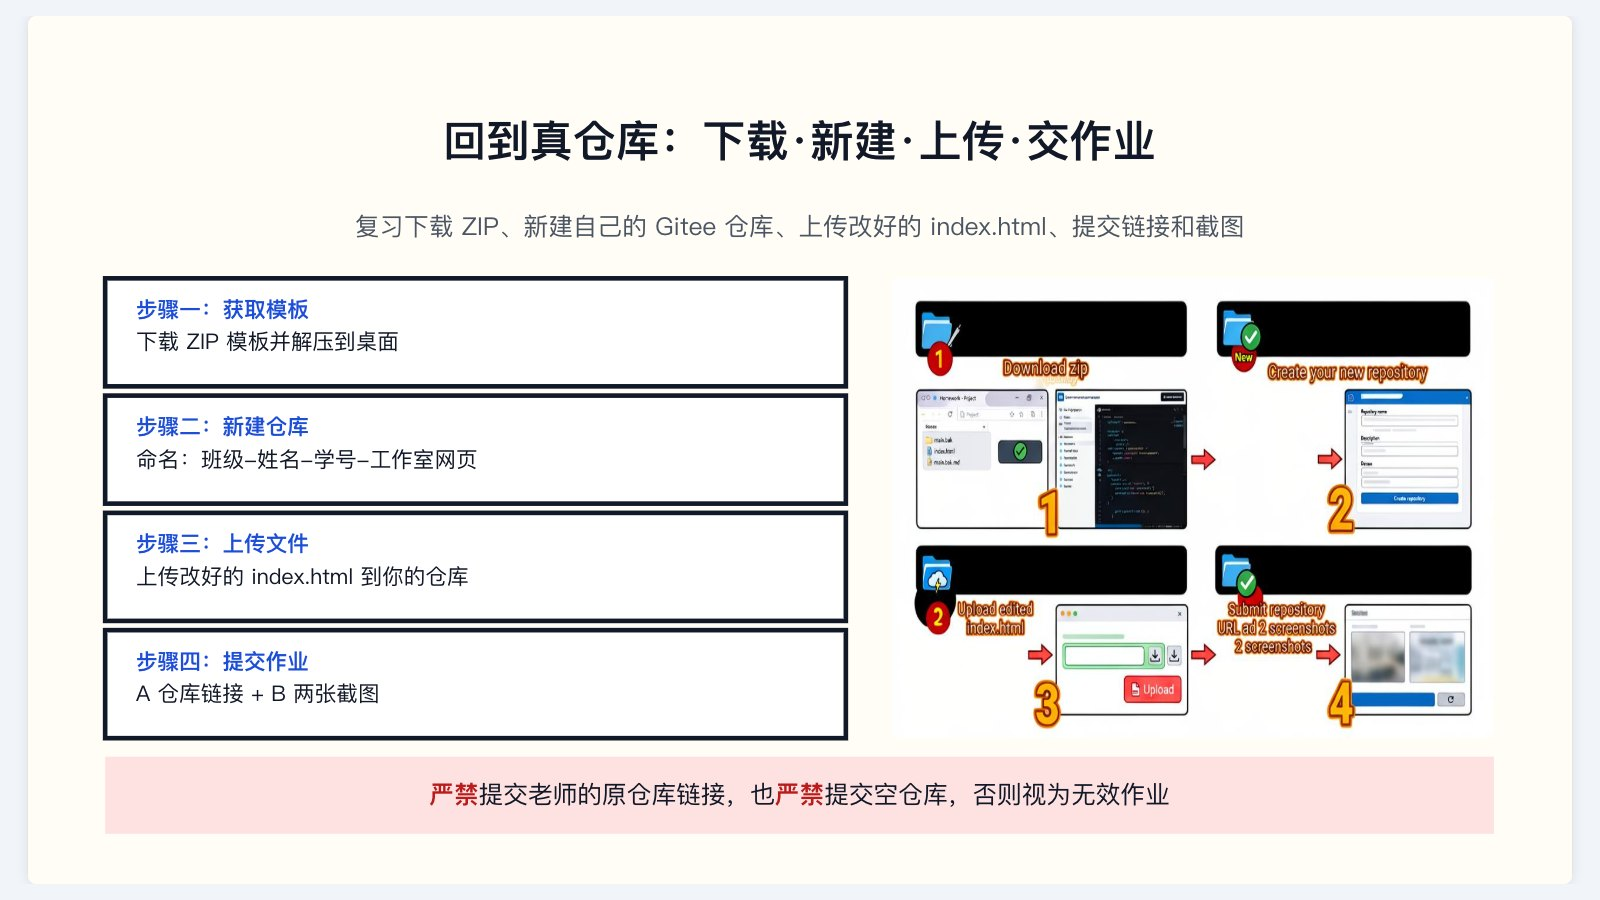
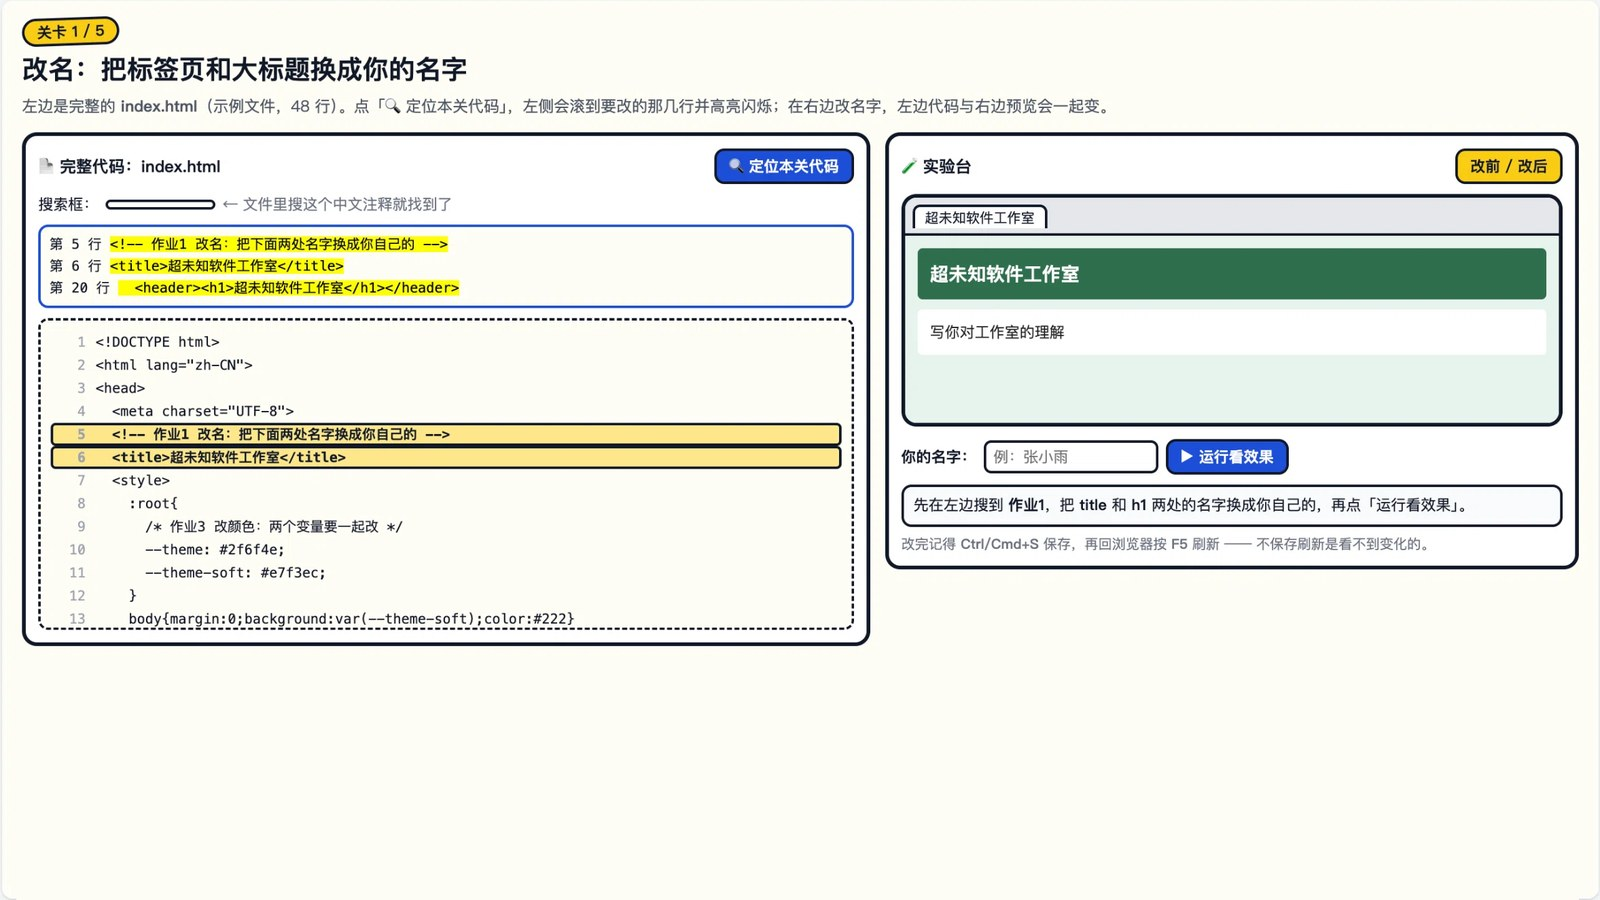
feat: 课程封面换成关卡 1「改名」的代码实操画面
- 取自 scene 3，去掉播放器字幕条、裁成 16:9 并压到 1600x900
- CONTEXT 同步封面来源说明

diff --git a/CONTEXT.md b/CONTEXT.md
@@ -120,7 +120,7 @@ content/courses/
   zoujin-chaoweizhi.json        课程元数据 + 11 个章节
 public/courses/zoujin-chaoweizhi/
   classroom.html                7.8MB SuperUnknownMAIC 离线课程
-  cover.jpg                     课程封面（scene 10）
+  cover.jpg                     课程封面（scene 3 · 关卡1 改名）
   scene-1.jpg ~ scene-11.jpg    章节缩略图
 scripts/
   capture-covers.mjs            Playwright 截封面/缩略图
@@ -136,7 +136,7 @@ docs/
 - 标题：走进超未知软件工作室
 - 副标题：工作室入门 · 网页改造实战
 - 11 个场景：4 张幻灯片 + 5 个互动关卡 + 2 个测验
-- 封面：`/courses/zoujin-chaoweizhi/cover.jpg`
+- 封面：`/courses/zoujin-chaoweizhi/cover.jpg`（取自 scene 3「关卡 1 · 改名」的画面，已去掉播放器字幕条并裁成 16:9）
 - 播放器：`/courses/zoujin-chaoweizhi/classroom.html`
 - 章节链接：`/courses/zoujin-chaoweizhi/learn/#scene-<order>`
 
